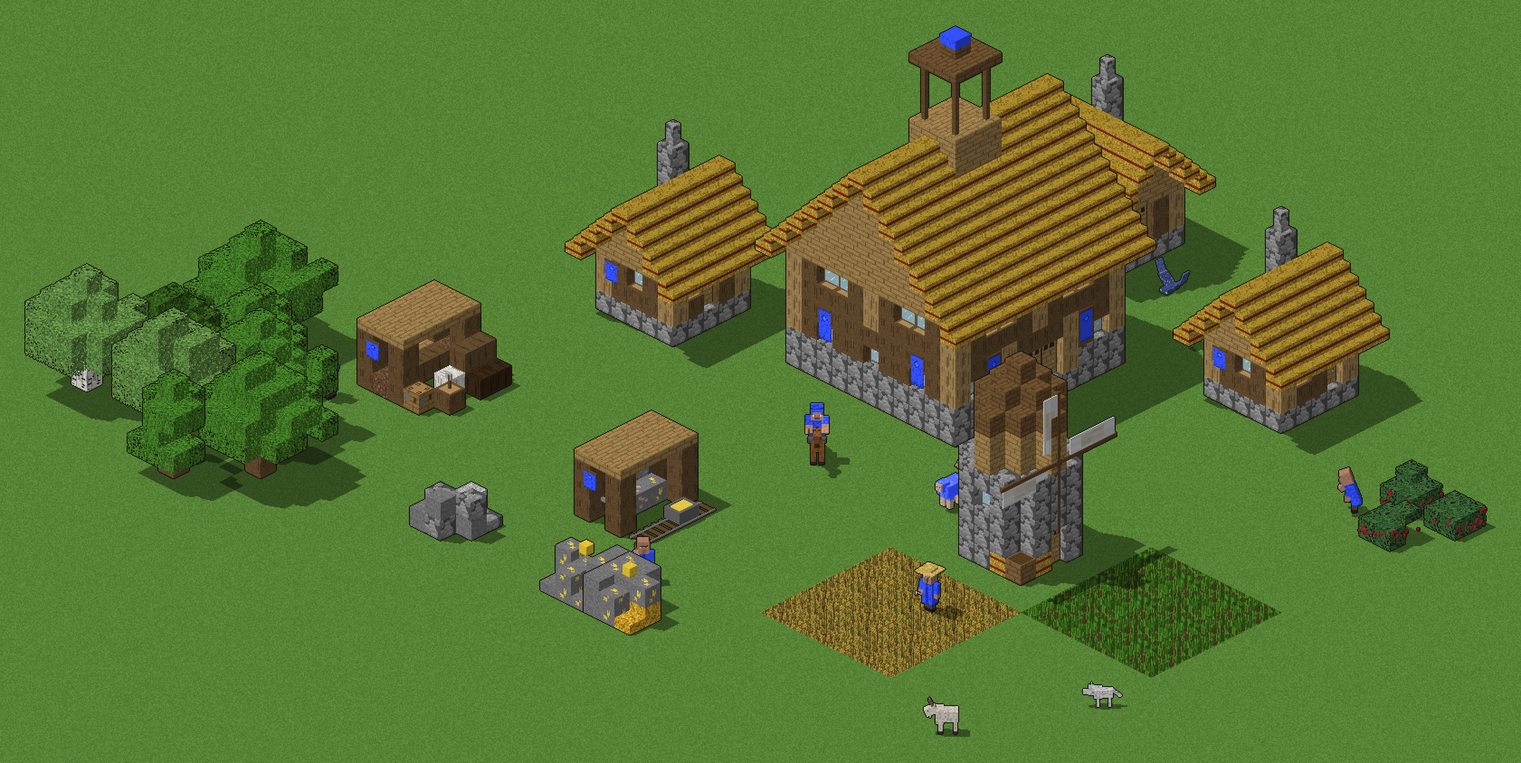
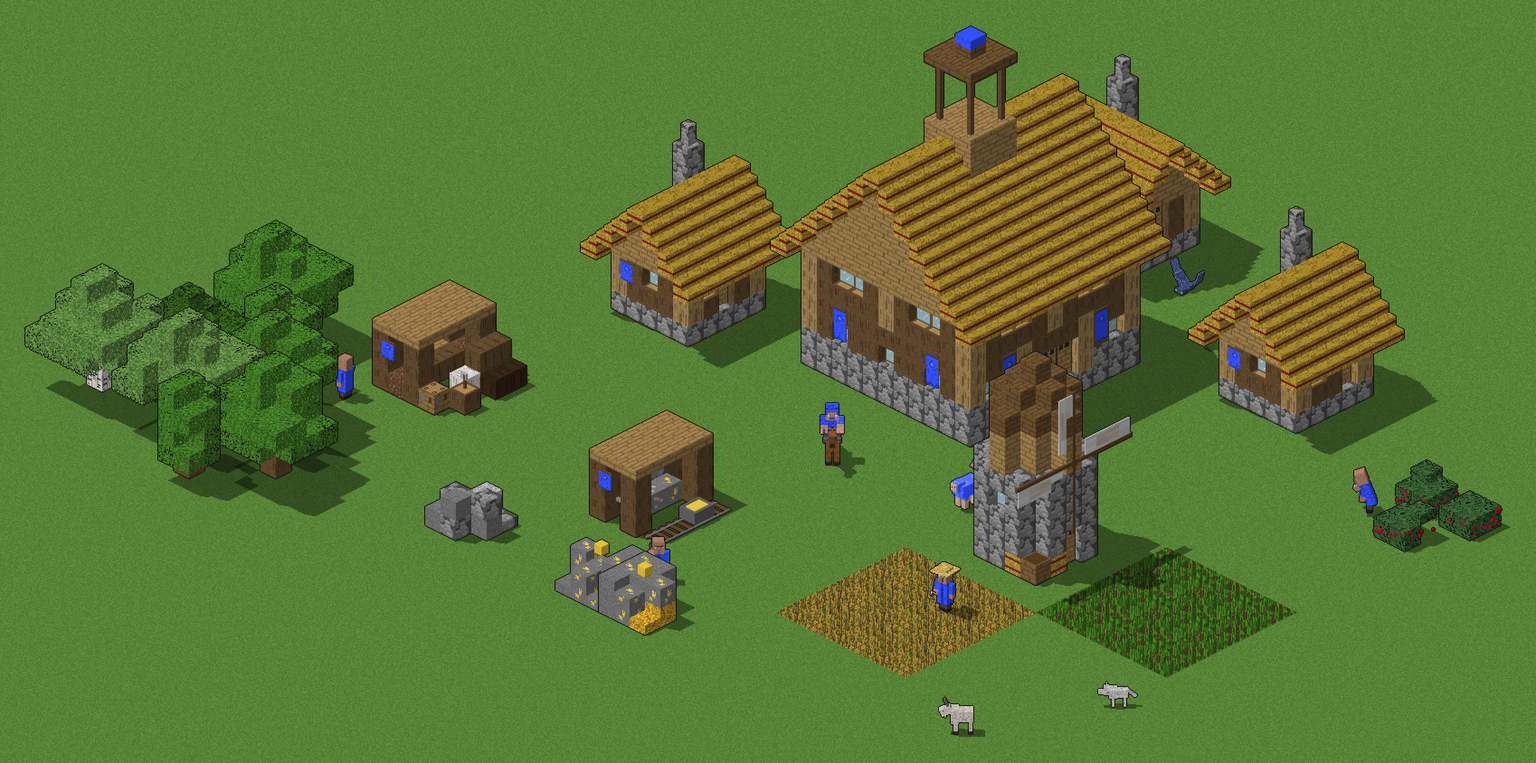
Draw the same trees and wall damage in every build
Trees and damaged walls were seeded with Python's hash() of a string,
which changes every time Python starts. Each build (and each preview
run) grew slightly different forests and knocked different blocks out
of damaged walls; the village preview even changed width between runs.
They are seeded with zlib.crc32 now, like the textures, so every run
draws the same sprites. A test renders trees and a damaged wall in two
Python processes with different hash seeds and compares them. The
village and nature previews are regenerated; every preview is now the
same run after run. Pac-Man's code is untouched.

diff --git a/tools/tests/test_export.py b/tools/tests/test_export.py
@@ -5,7 +5,9 @@ reader, and a full build against a fake game folder.
 """
 from __future__ import annotations
 
+import os
 import struct
+import subprocess
 import sys
 import tempfile
 import zlib
@@ -312,6 +314,20 @@ def test_dat_reader():
     from aom import farmland
     assert {s for s, _, _ in farmland.farm_slps(terrains)} == {15004, 15005, 15021, 15040, 15023}
     assert {s for s, _, _ in farmland.farm_slps([])} == set(farmland.FARM_SLPS)  # no table: the original ids
+
+
+def test_renders_are_reproducible():
+    """Trees and damaged walls come out the same in every run (Python's hash() of a string changes per process)."""
+    code = ("import sys, hashlib; sys.path.insert(0, %r); "
+            "from aom import nature, fortifications as FT; from aom.voxel import all_blocks; "
+            "from aom.render import fit_camera, render; "
+            "roots = [nature.tree(k, 110, 1).part(all_blocks()) for k in ('oak', 'palm', 'jungle', 'bamboo')]; "
+            "roots.append(FT.wall_piece('stone', 'W', FT.PIECES[3], 3).part(all_blocks())); "
+            "print(hashlib.md5(b''.join(render(r, -45.0, camera=fit_camera(r, -45.0)).kind.tobytes() "
+            "for r in roots)).hexdigest())") % str(Path(__file__).resolve().parents[1])
+    runs = {subprocess.run([sys.executable, "-c", code], env={**os.environ, "PYTHONHASHSEED": seed},
+                           capture_output=True, text=True, check=True).stdout for seed in ("1", "2")}
+    assert len(runs) == 1, runs
 
 
 def test_rendered_sprite_matches_layout():

diff --git a/tools/aom/nature.py b/tools/aom/nature.py
@@ -7,6 +7,8 @@ blocks, berry bushes become sweet berry bushes, and so on.
 """
 from __future__ import annotations
 
+import zlib
+
 import numpy as np
 
 from . import voxel as V
@@ -43,7 +45,7 @@ TREE_KINDS = ("oak", "birch", "spruce", "snowy_spruce", "jungle", "palm", "bambo
 
 def tree(kind: str, height_px: float = 110.0, seed: int = 0, part: str = "all") -> V.Structure:
     """A tree about `height_px` screen pixels tall. `part`: all, trunk (bottom half) or crown (top half)."""
-    rng = np.random.default_rng(seed * 7919 + hash(kind) % 1000)
+    rng = np.random.default_rng(seed * 7919 + zlib.crc32(kind.encode()) % 1000)  # hash() changes every run
     h = blocks_for_height(height_px)
     s = _s(f"tree_{kind}")
     c = 1

diff --git a/tools/aom/fortifications.py b/tools/aom/fortifications.py
@@ -18,6 +18,8 @@ a wall arriving from any side meets it.
 """
 from __future__ import annotations
 
+import zlib
+
 import numpy as np
 
 from . import voxel as V
@@ -61,7 +63,7 @@ def wall_piece(kind: str, style: str, piece: str, damage: int = 0, progress: flo
     body, top, height = wall_materials(kind, st)
     s = _cell(f"wall_{kind}_{piece}")
     cells = _piece_cells(piece)
-    rng = np.random.default_rng(hash((kind, style, piece, damage)) % 2 ** 32)
+    rng = np.random.default_rng(zlib.crc32(f"{kind} {style} {piece} {damage}".encode()))  # hash() changes every run
     built = max(1, int(np.ceil(height * progress))) if progress < 1 else height
     for (x, y) in cells:
         for z in range(built):

diff --git a/CLAUDE.md b/CLAUDE.md
@@ -92,6 +92,8 @@ putting `tools/` on `sys.path`.
   every tile (3 blocks to a tile, camera scale √2). Each new frame fills exactly the original frame's pixels.
 - **Don't change Pac-Man without asking.** His `.dat` patch, icon, sounds and name took many rounds of testing in
   the player's game.
+- **Seed randomness with `zlib.crc32`, never `hash()`.** Python's string hashes change every run, so the sprites and
+  previews would too (`Painter` seeds with crc32; `test_renders_are_reproducible` checks two hash seeds).
 - **Keep the `.bat` files' Windows line endings (CRLF).** Editing them with a tool that writes `\n` converts them.
 - **Windows players come first.** Look files up with the case-insensitive `pick()`. Never write into the player's
   `Data/` without a `.aom-backup`, and make sure `--restore` can undo every file the build touches.
